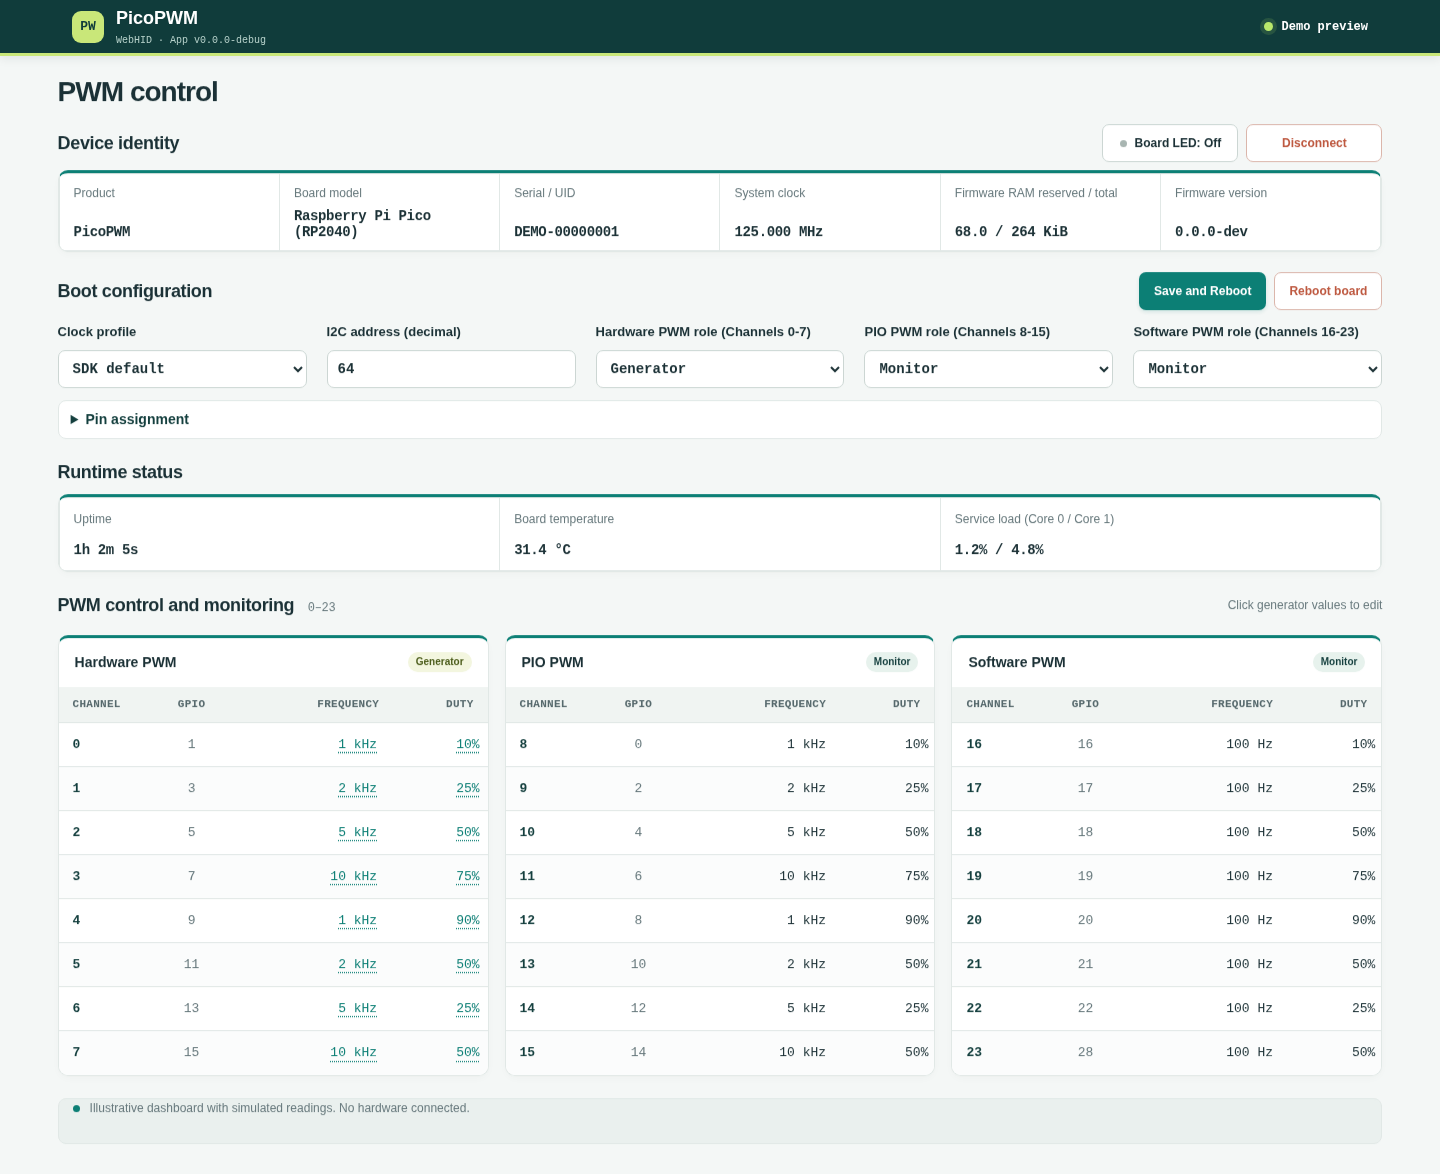
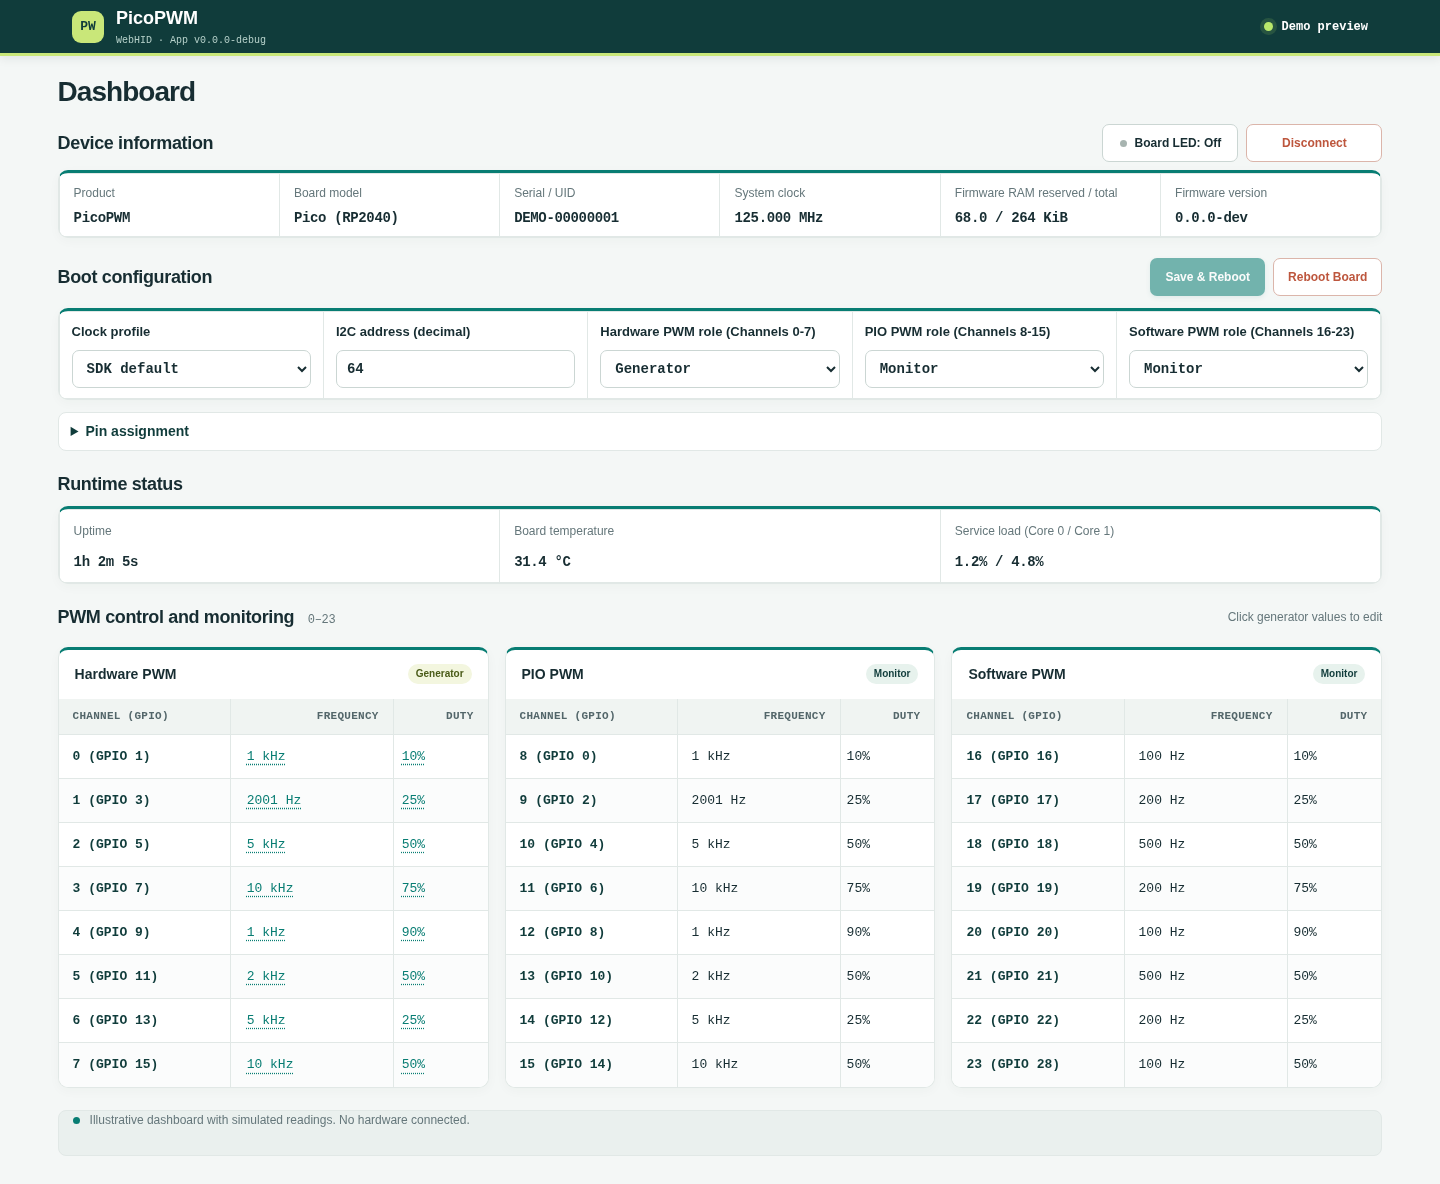
update readme

diff --git a/firmware/src/app/cli/pwm_commands.c b/firmware/src/app/cli/pwm_commands.c
@@ -14,7 +14,8 @@
 static const shell_command_t pwm_commands[] = {
     {"info", "info                    Show device type and system clock", board_commands_info},
     {"version", "version              Show firmware version", board_commands_version},
-    {"config", "config [set <a|b|c> <hw|pio|sw> <gen|mon>|save]  Show or set startup config", board_commands_config},
+    {"config", "config [set <a|b|c> <gen|mon>|address <7-bit>|clock <mhz>|save]  Show or set startup config",
+     board_commands_config},
     {"get", "get <ch>                 Read channel properties", channel_commands_get},
     {"set", "set <ch> <freq> [duty%]  Set freq, optional duty defaults to 50%", channel_commands_set},
     {"led", "led <on|off>             Set board LED state", board_commands_led},

diff --git a/README.md b/README.md
@@ -12,7 +12,7 @@ generator and frequency monitor, controlled through USB CDC, I2C or USB HID. The
 **Quick links:** [Download firmware](https://github.com/djwinter29-oss/PicoPWM/releases) ·
 [Hardware setup](docs/guides/hardware-setup.md) ·
 [Open browser dashboard](https://djwinter29-oss.github.io/PicoPWM/) ·
-[Python package](https://pypi.org/project/picopwm-host/) ·
+[Python dashboard](host/python/README.md) ·
 [Control interfaces](docs/guides/control/README.md)
 
 ## Why PicoPWM?
@@ -27,14 +27,18 @@ generator and frequency monitor, controlled through USB CDC, I2C or USB HID. The
 
 ![WebHID dashboard with simulated device identity, boot configuration, runtime status, and 24 PWM generator and monitor channels.](docs/assets/pico-pwm-dashboard.png)
 
-_Current WebHID layout with simulated readings; illustrative, not a live hardware result._
+_Illustrative WebHID dashboard with simulated readings, not a live hardware result. The Python and .NET dashboards share
+this layout; labels and columns may differ slightly in the current release._
 
 | Backend | Characteristics | Constraints |
 | --- | --- | --- |
-| Hardware PWM | High timing accuracy | Pin/slice assignment and minimum-frequency limits |
-| PIO PWM | Flexible placement and broad range | Finite state machines and divider/period quantization |
-| Software PWM | Any ordinary GPIO | CPU and timer overhead limit channel count, frequency and accuracy |
+| Hardware PWM | High timing accuracy | Generator requests: 10 Hz-1 MHz; fixed pin/slice assignment |
+| PIO PWM | Fixed Bank B pin map; broad range | Generator requests: 1 Hz-1 MHz; finite state machines and divider/period quantization |
+| Software PWM | Fixed Bank C pin map | Generator requests: 1 Hz-1 kHz; CPU and timer overhead limit channel count and accuracy |
 | Monitor backends | Measure input signals | Backend-specific range and accuracy; software monitoring suits simple low-frequency signals |
+
+These are generator request ranges; `0 Hz` is a special static output level (`0%` low or `100%` high). Duty is
+0-100%. Monitor measurement limits are backend-specific.
 
 ## Before You Connect
 
@@ -42,41 +46,104 @@ _Current WebHID layout with simulated readings; illustrative, not a live hardwar
 - I2C needs external pull-ups on SDA and SCL. Start at 100 kHz.
 - The default configuration is monitor-only, so no PWM output is driven after power-up. Generator banks start at
   0 Hz and 0% duty; `stop` drives generator outputs low and leaves monitor banks unchanged.
-- Bank roles are set in the startup configuration, not at build time. Change the target with `config set` (CDC), the
-  matching I2C registers or HID, save it with `config save`, then reboot to apply it.
-- The default system clock is the SDK default: 125 MHz on RP2040 and 150 MHz on RP2350. 150, 200 and 250 MHz profiles
-  are optional overclocks and are not qualified for every board.
+- Bank roles are set in the startup configuration, not at build time. Change the target over CDC (`config set`), I2C
+  (`REG_CONFIG_SET`) or HID, then save it with that interface's own operation (`config save`, `REG_CONFIG_SAVE`, or the
+  dashboard's **Save & Reboot**) and reboot to apply it.
+- The SDK default is 125 MHz on RP2040 and 150 MHz on RP2350. The 150 MHz profile is an overclock only on RP2040.
+   HID/dashboard saves require acknowledgement above 150 MHz; CDC has no separate acknowledgement step. The 200 and
+   250 MHz profiles are not qualified for every board.
 - Firmware has not been qualified on a hardware fixture; host tests do not replace hardware validation.
 
 ## Get Started
 
-1. **Get the firmware.** Download the `pico` UF2 for Raspberry Pi Pico (RP2040) or `pico2` for Raspberry Pi Pico 2
-   (RP2350) from [Releases](https://github.com/djwinter29-oss/PicoPWM/releases), or build it with
+1. **Get firmware.** Download the `pico` UF2 for Raspberry Pi Pico (RP2040) or `pico2` for Raspberry Pi Pico 2
+   (RP2350) from [Releases](https://github.com/djwinter29-oss/PicoPWM/releases), or build one with
    `tools/firmware/build.sh --board pico` (or `pico2`). The UF2 is written to `build/<board>/pico_pwm.uf2`.
-2. **Flash with a debug probe.** Connect a Pico Debug Probe to the board's SWD interface, then run
-   `tools/firmware/load.sh --board pico` (or `pico2`). The script builds the firmware and programs it through OpenOCD.
-   OpenOCD must be installed and the probe connected; see the [hardware setup guide](docs/guides/hardware-setup.md).
-   The loader bypasses SPI flash ID detection; for a board with a non-default flash capacity, pass `--flash-size`
-   with the capacity in bytes.
+2. **Flash the UF2.** Hold **BOOTSEL** while connecting the board, release it when the boot drive appears, then copy
+   the downloaded or locally built `.uf2` onto that drive. The board reboots automatically.
 3. **Wire your signals.** Follow the [hardware setup guide](docs/guides/hardware-setup.md) for the channel GPIO map,
    I2C pins and board-specific pin considerations.
-4. **Connect to PicoPWM.** Use the USB CDC shell at 115200 baud, or connect an I2C controller to the default 7-bit
-   address `0x40`.
-5. **Open a dashboard (optional).** Use the [browser dashboard](https://djwinter29-oss.github.io/PicoPWM/) or run one
+4. **Connect to PicoPWM.** Open the board's USB CDC serial port in a terminal (see the
+   [USB CDC CLI guide](docs/guides/control/usb_cdc_cli.md)), or connect an I2C controller to the default 7-bit
+   address `0x40`. Serial device names vary by OS; common examples are `/dev/ttyACM0` on Linux, `COMx` on Windows,
+   and `/dev/cu.usbmodem*` on macOS. USB CDC does not require a particular terminal baud-rate setting.
+5. **Verify.** In the CDC shell, run `version` to confirm the firmware is running, then `config` to see the bank roles.
+6. **Open a dashboard (optional).** Use the [browser dashboard](https://djwinter29-oss.github.io/PicoPWM/) or run one
    locally as described below.
+
+The default bank roles are monitor-only. To try a generator output, connect a 3.3 V-safe oscilloscope or logic
+analyzer to GPIO 1 and GND, then configure Bank A and reboot:
+
+```text
+config set a gen
+config save
+reboot
+```
+
+After the board reconnects, run `set 0 1000 50` and `get 0` to request 1 kHz at 50% duty and inspect the realized
+output. When finished, run `stop` to drive generator outputs low; this does not change the saved bank role. See the
+[CDC CLI guide](docs/guides/control/usb_cdc_cli.md) for command details.
+
+## Troubleshooting
+
+### When an output stays low
+
+1. Check that the bank is configured as a generator; monitor banks measure inputs and never drive outputs.
+2. Check the realized state. A generator at `0 Hz / 0%` is intentionally held low, while `0 Hz / 100%` is held high.
+3. Check the wiring: confirm the channel's GPIO in the [hardware setup guide](docs/guides/hardware-setup.md) and that
+   the load shares ground with the board.
+
+Use `config` to inspect running and target bank roles and `get <channel>` to inspect a channel's realized frequency and
+duty; both are described in the [USB CDC CLI guide](docs/guides/control/usb_cdc_cli.md).
 
 ## Dashboards
 
 Use a dashboard for interactive control and monitoring. USB CDC and I2C remain available to scripts and other host
 applications.
 
-| Dashboard | How to run it |
-| --- | --- |
-| **Browser (WebHID)** | Open the [hosted dashboard](https://djwinter29-oss.github.io/PicoPWM/) in desktop Chrome or Edge; no backend required. See [host/webhid](host/webhid/README.md). |
-| **Python** | Run `tools/host/run-python.sh`, then open `http://127.0.0.1:5000/`; see [host/python](host/python/README.md). |
-| **.NET** | Run `tools/host/run-dotnet.sh`; see [host/dotnet](host/dotnet/README.md). |
+The source-checkout launchers below require a repository checkout. For a published Python release, install the wheel
+with `python -m pip install picopwm-host`, start it with `picopwm-web`, then open <http://127.0.0.1:5000/>. For the
+standalone .NET host, download and extract the `picopwm-host-v<VERSION>-<RID>` archive for your platform, then run
+`./PicoPwm` (Linux/macOS) or `PicoPwm.exe` (Windows) from the extracted directory and open
+<http://127.0.0.1:5000/>. In Windows PowerShell, invoke the executable as `.\PicoPwm.exe`. The .NET archive includes
+its runtime. See
+[Builds and Publishing](docs/guides/releases.md) for package availability and release details.
 
-The Python and .NET hosts talk to the board over USB HID.
+### Browser Dashboard
+
+Open the [hosted dashboard](https://djwinter29-oss.github.io/PicoPWM/) in desktop Chrome or Edge, connect the board to
+that computer, and select **Connect**. The browser talks to the board directly over WebHID; no local server is needed.
+See the [WebHID guide](host/webhid/README.md) for browser requirements and controls.
+
+### Local Python Dashboard
+
+Run `tools/host/run-python.sh`, then open <http://127.0.0.1:5000/>. The Python server connects to the board over USB
+HID. See the [Python guide](host/python/README.md) for configuration and API details.
+
+### Local .NET Dashboard
+
+Run `tools/host/run-dotnet.sh`, then open <http://127.0.0.1:5000/>. The .NET server also connects to the board over
+USB HID. See the [.NET guide](host/dotnet/README.md) for configuration and API details.
+
+### Linux HID Permissions
+
+On Linux, configure HID access once with `tools/host/hid-permissions-setup.sh`; the Python and .NET launchers check
+permissions before starting. For WebHID, run setup on the computer connected to the board, not only on a remote server.
+See [Linux HID permissions](docs/guides/control/README.md#linux-hid-permissions).
+
+## Hardware Compatibility
+
+The `pico` and `pico2` profiles use the standard Pico and Pico 2 GPIO assignments documented in the
+[hardware setup guide](docs/guides/hardware-setup.md). A third-party RP2040/RP2350 board is not automatically
+compatible: verify it exposes the profile's channel GPIOs `0-22` and `28`; I2C additionally requires GPIOs `26` and
+`27`. The standard profile also assumes the board's LED is on GPIO 25. Verify SWD access only if programming it with a
+Debug Probe.
+`tools/firmware/load.sh` is the developer workflow for programming a local build through a Debug Probe; see
+[Program with a Pico Debug Probe](docs/guides/hardware-setup.md#program-with-a-pico-debug-probe). Its
+`--flash-size <bytes>` option overrides OpenOCD's flash-size assumption only; it does not change the firmware's GPIO
+mapping or board profile.
+
+**Pico W and Pico 2 W** are not supported: the build helper and releases cover only the `pico` and `pico2` boards.
 
 ## Documentation
 
@@ -95,7 +162,9 @@ are in [BUILD_STRUCTURE.md](BUILD_STRUCTURE.md).
 
 Related projects: [PicoUART](https://github.com/djwinter29-oss/PicoUart) (six USB serial ports) and
 [PicoForge](https://github.com/djwinter29-oss/PicoForge) (host-controlled board services). They share no runtime
-dependency. The CDC shell uses [embedded-cli](https://github.com/funbiscuit/embedded-cli), included as the
+dependency.
+
+Third-party software: the CDC shell uses [embedded-cli](https://github.com/funbiscuit/embedded-cli), included as the
 `firmware/third_party/embedded-cli` submodule (v0.1.4, MIT).
 
 ## License

diff --git a/docs/guides/hardware-setup.md b/docs/guides/hardware-setup.md
@@ -84,3 +84,19 @@ typically use 4.7 kOhm pull-ups on SDA and SCL.
 - GPIO 26 is I2C1 SDA and ADC0.
 - GPIO 27 is I2C1 SCL and ADC1.
 - GPIO 28 is software PWM channel 23 and ADC2.
+
+## Program with a Pico Debug Probe
+
+For local builds, `tools/firmware/load.sh` programs the ELF over SWD using OpenOCD. Connect the Debug Probe's three-pin
+SWD cable to the target:
+
+| Debug Probe signal | Cable color | Target signal |
+|---|---|---|
+| `SC` / SWCLK | Orange | SWCLK |
+| GND | Black | GND |
+| `SD` / SWDIO | Yellow | SWDIO |
+
+Connect GND first to establish a common reference. Power the target board separately over USB; the SWD cable does not
+power it. The Debug Probe uses 3.3 V I/O. For a third-party board, identify SWCLK, SWDIO, and GND from its schematic
+rather than assuming the standard Pico connector placement. See the [Raspberry Pi Debug Probe guide](https://www.raspberrypi.com/documentation/microcontrollers/debug-probe.html)
+for probe details.

diff --git a/docs/guides/control/usb_cdc_cli.md b/docs/guides/control/usb_cdc_cli.md
@@ -7,9 +7,10 @@ commands through `pwm_commands.*`.
 
 ## Connection
 
-Connect the board over a USB data cable and open its CDC serial device at
-115200 baud. The firmware prints the command help when a host connection is
-opened and displays the `pico> ` prompt.
+Connect the board over a USB data cable and open its CDC serial device. The
+terminal's baud-rate setting does not affect USB packet timing; this shell does
+not configure a physical UART. The firmware prints the command help when a host
+connection is opened and displays the `pico> ` prompt.
 
 Commands are entered one line at a time and responses end with CRLF (`\r\n`).
 The interactive editor supports backspace, cursor movement, command history,
